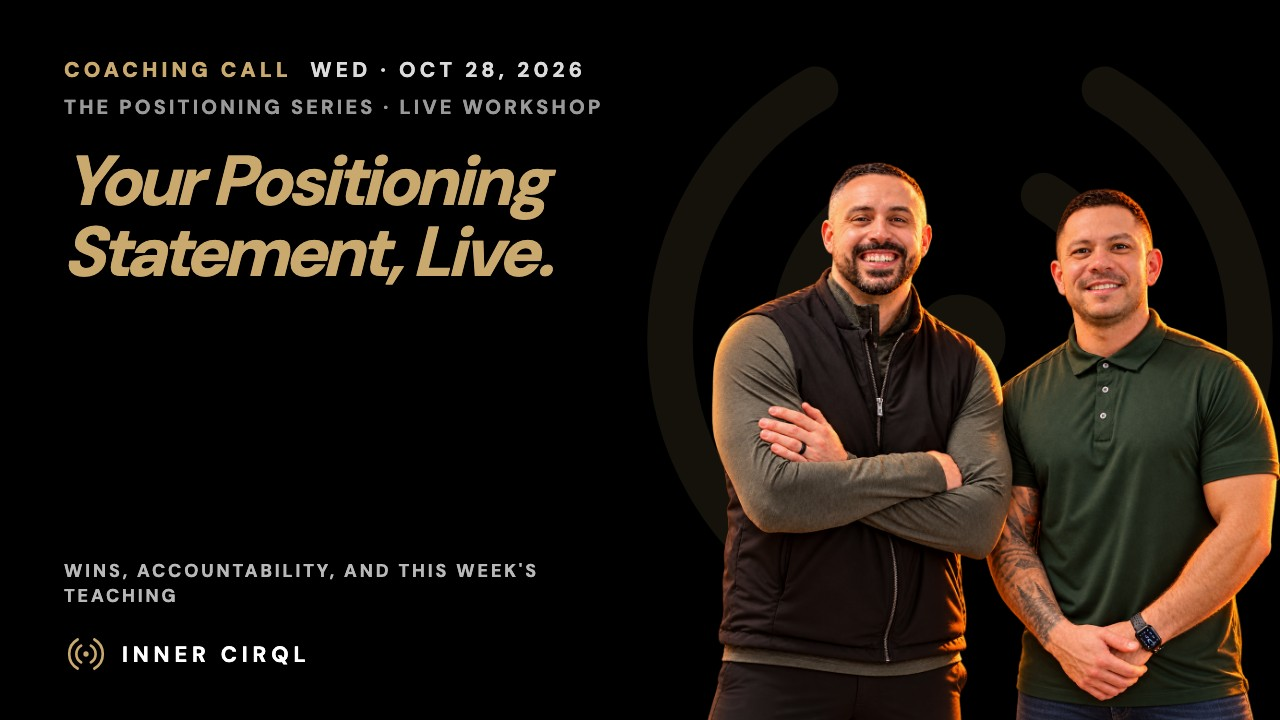
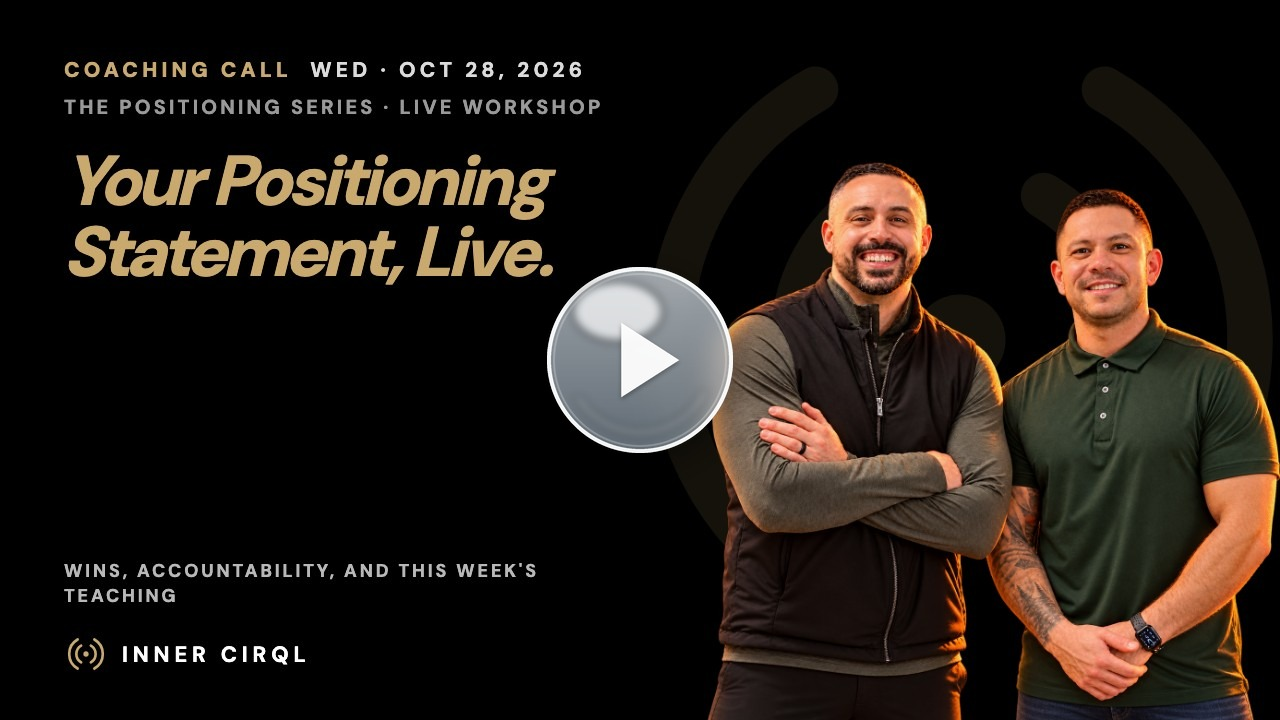
Training: retitle Oct 28 coaching call (The Positioning Series · Building Your Positioning Statement Live) + thumbnail

Changed region(s): [[0.4062, 0.3667, 0.5938, 0.6417]]

diff --git a/training/index.html b/training/index.html
@@ -94,6 +94,26 @@ window.LIBRARY = {
   ],
   "items": [
     {
+      "id": "v-2026-10-28",
+      "date": "2026-10-28",
+      "dateLabel": "October 28, 2026",
+      "series": "positioning",
+      "week": 4,
+      "name": "Building Your Positioning Statement Live",
+      "title": "The Positioning Series · Building Your Positioning Statement Live",
+      "headline": [
+        "Your Positioning",
+        "Statement, Live."
+      ],
+      "sub": "The Positioning Series · Live Workshop",
+      "desc": "The Positioning Series: Building Your Positioning Statement Live. Wins, accountability, and the teaching segment, edited replay.",
+      "href": "https://coach.theinnercirql.com/2026-10-28/",
+      "pdf": null,
+      "slides": null,
+      "embed": "https://www.youtube.com/embed/TAK0x6sg4_Q?rel=0&modestbranding=1",
+      "thumb": "/assets/thumbs/oct-28-call.jpg?v=29920130"
+    },
+    {
       "id": "v-2026-10-14",
       "date": "2026-10-14",
       "dateLabel": "October 14, 2026",
@@ -532,26 +552,6 @@ window.LIBRARY = {
       "slides": null,
       "embed": "https://www.youtube.com/embed/wwkpkQBc8ps?rel=0&modestbranding=1",
       "thumb": "/assets/thumbs/nov-11-call.jpg?v=1"
-    },
-    {
-      "id": "v-2026-10-28",
-      "date": "2026-10-28",
-      "dateLabel": "October 28, 2026",
-      "series": "positioning",
-      "week": 4,
-      "name": "Building Your Positioning Statement Live",
-      "title": "The Positioning Series · Building Your Positioning Statement Live",
-      "headline": [
-        "Your Positioning",
-        "Statement, Live."
-      ],
-      "sub": "The Positioning Series · Live Workshop",
-      "desc": "The Positioning Series: Building Your Positioning Statement Live. Wins, accountability, and the teaching segment, edited replay.",
-      "href": "https://coach.theinnercirql.com/2026-10-28/",
-      "pdf": null,
-      "slides": null,
-      "embed": "https://www.youtube.com/embed/TAK0x6sg4_Q?rel=0&modestbranding=1",
-      "thumb": "/assets/thumbs/oct-28-call.jpg?v=1"
     },
     {
       "id": "t-become-a-listing-magnet",
